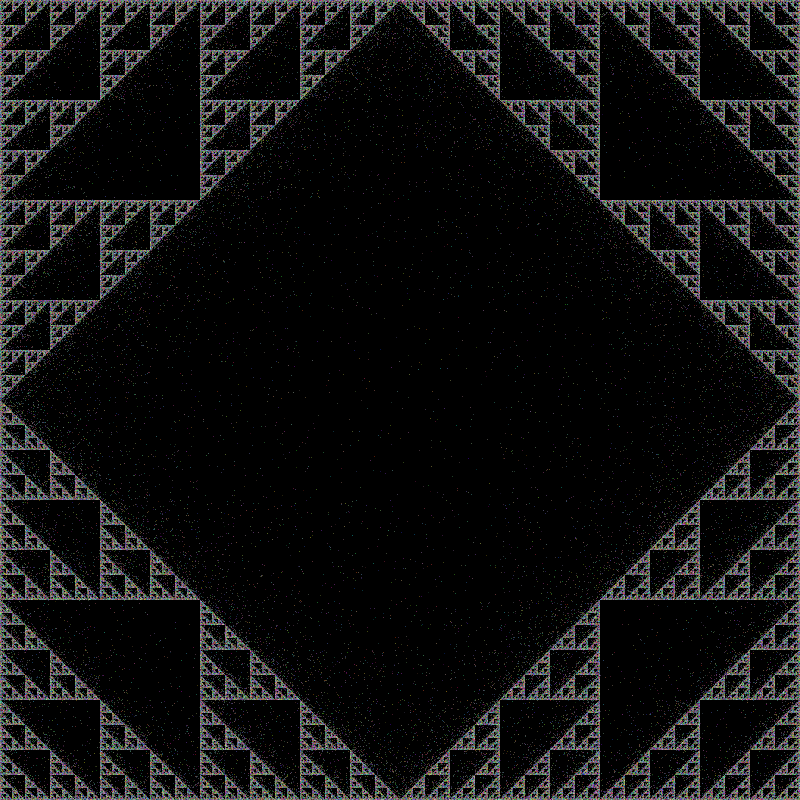
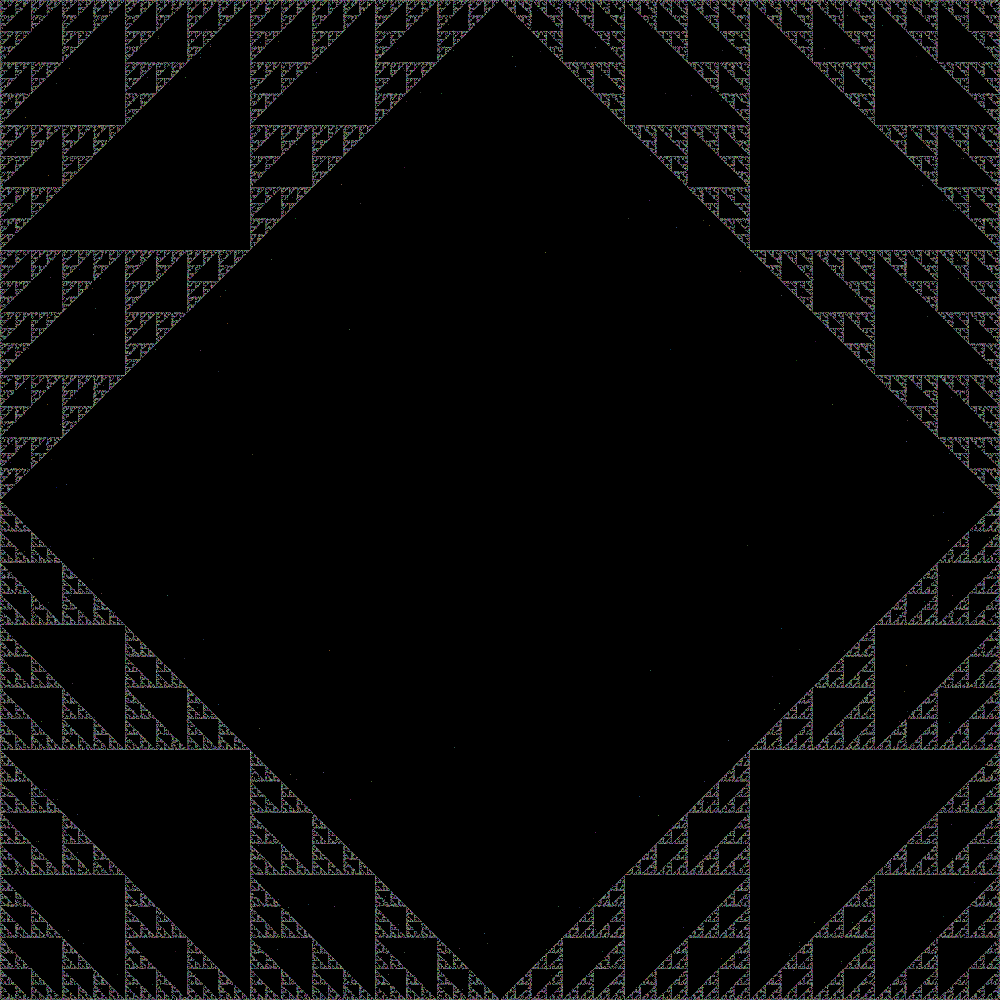
project4fixes

Changed region(s): [[0.0, 0.0, 1.0, 1.0]]

diff --git a/src/test/java/edu/project4/Project4Test.java b/src/test/java/edu/project4/Project4Test.java
@@ -183,66 +183,4 @@ public class Project4Test {
         // then
         assertThat(thrown.getMessage()).isEqualTo("Incorrect file extension");
     }
-
-    @Test
-    @DisplayName("Проверка на ускорение")
-    void speedupTest() {
-        // given
-        int width = 800;
-        int height = 800;
-        int symmetry = 4;
-        int samples = 10000;
-        int iterPerSample = 100;
-        long seed = 42;
-        Rect world = new Rect(-1.0, -1.0, 2.0, 2.0);
-
-        List<Transformation> variations = new ArrayList<>();
-        variations.add(point -> new Point(point.x() * 0.5 + 0.5, point.y() * 0.5 + 0.5));
-        variations.add(point -> new Point(point.x() * 0.5 + 0.5, point.y() * 0.5));
-        variations.add(point -> new Point(point.x() * 0.5, point.y() * 0.5 + 0.5));
-
-        double gamma = 2.2;
-        Path path = Path.of("fractal_image.png");
-        ImageFormat format = ImageFormat.PNG;
-
-        // when
-        long timeStart = System.nanoTime();
-        FractalFlameGenerator.generate(
-            width,
-            height,
-            symmetry,
-            samples,
-            iterPerSample,
-            seed,
-            world,
-            variations,
-            gamma,
-            false,
-            path,
-            format
-        );
-        long nanoEstimatedTime = System.nanoTime();
-        long seq = nanoEstimatedTime - timeStart;
-
-        timeStart = System.nanoTime();
-        FractalFlameGenerator.generate(
-            width,
-            height,
-            symmetry,
-            samples,
-            iterPerSample,
-            seed,
-            world,
-            variations,
-            gamma,
-            true,
-            path,
-            format
-        );
-        nanoEstimatedTime = System.nanoTime();
-        long par = nanoEstimatedTime - timeStart;
-
-        // then
-        assertThat(seq).isGreaterThan(par);
-    }
 }

diff --git a/src/main/java/edu/project4/Main.java b/src/main/java/edu/project4/Main.java
@@ -19,10 +19,10 @@ public final class Main {
     @SuppressWarnings("MagicNumber")
     public static void main(String[] args) {
 
-        int width = 800;
-        int height = 800;
+        int width = 1000;
+        int height = 1000;
         int symmetry = 4;
-        int samples = 10000;
+        int samples = 1000;
         int iterPerSample = 100;
         long seed = System.currentTimeMillis();
         Rect world = new Rect(-1.0, -1.0, 2.0, 2.0);
